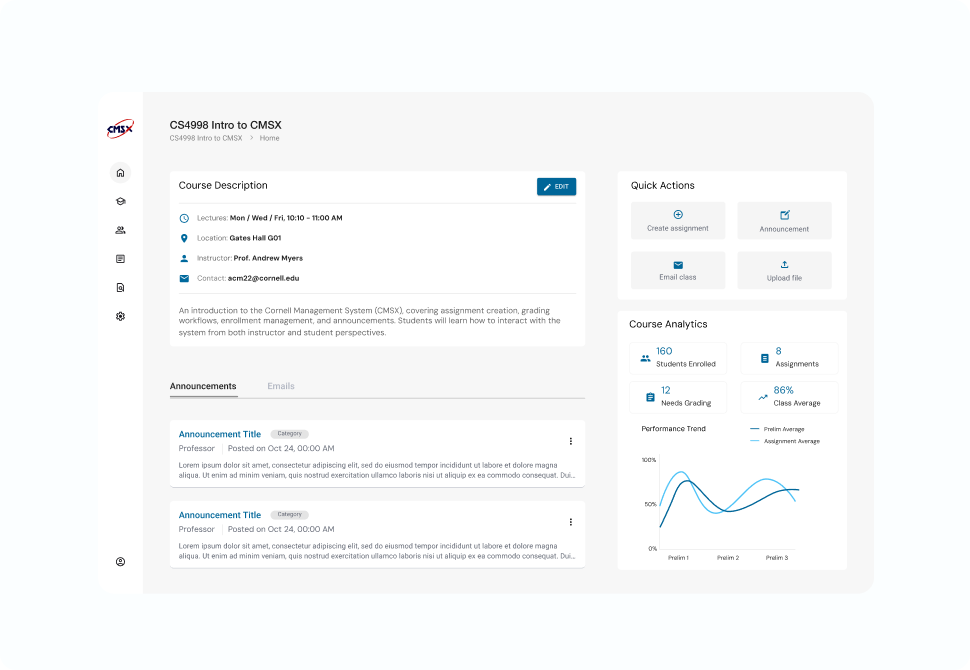
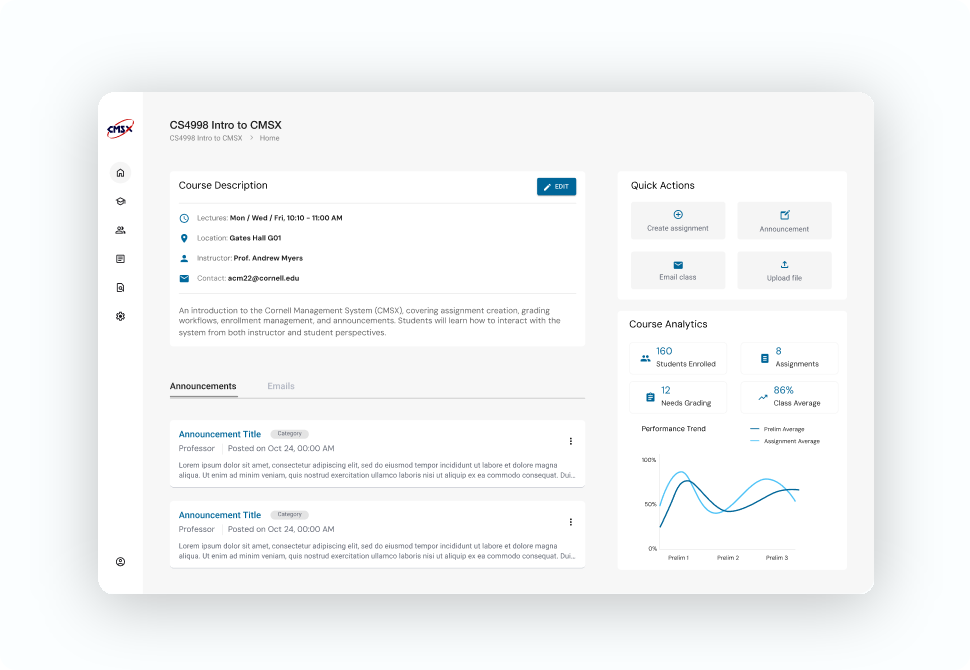
updated home page

Changed region(s): [[0.1237, 0.8657, 0.8969, 0.9254], [0.8969, 0.1791, 0.9278, 0.8657], [0.0928, 0.209, 0.1237, 0.8657]]

diff --git a/index.html b/index.html
@@ -83,7 +83,7 @@
                 <span class="project-card__tag">DCC | Spring 2026</span>
               </div>
               <p class="project-card__description">
-                Designed a campus marketplace app that helps students discover student-run businesses through a more connected campus community
+                Designed a campus marketplace for student-run services
               </p>
             </a>
 
@@ -96,7 +96,7 @@
                 <span class="project-card__tag">DTI | Fall 2025</span>
               </div>
               <p class="project-card__description">
-                Led the design of a 0→1 personalized folders feature for organizing and comparing apartments on a housing platform for students
+                Led the design of a 0→1 personalized housing experience for students
               </p>
             </a>
           </div>
@@ -111,7 +111,7 @@
                 <span class="project-card__tag">FigBuild Design-a-ton | Spring 2026</span>
               </div>
               <p class="project-card__description">
-                Designed a privacy-centered wearable and tablet experience that helps people understand subtle shifts in daily rhythms and time perception
+                Created a wearable experience revealing changes in daily rhythms
               </p>
             </a>
 
@@ -124,7 +124,7 @@
                 <span class="project-card__tag">CMSX | Spring 2026</span>
               </div>
               <p class="project-card__description">
-                Designed a course management experience that helps instructors and TAs navigate course data, manage classes, and access key actions
+                Designed a course management experience for instructors and TAs
               </p>
             </a>
           </div>
@@ -139,7 +139,7 @@
                 <span class="project-card__tag">Game Design | Spring 2026</span>
               </div>
               <p class="project-card__description">
-                Led the UX design for Crush the Hero, a turn based strategy game presented at the 2026 Cornell GDIAC Showcase
+                Crafted a turn-based strategy game with UX and interactions
               </p>
             </a>
 
@@ -152,7 +152,7 @@
                 <span class="project-card__tag">Independent Case Study | Summer 2025</span>
               </div>
               <p class="project-card__description">
-                Designed a calming study app that helps college students stay focused and reflect on their progress
+                Built a low-pressure focus experience for students to track progress
               </p>
             </a>
           </div>

diff --git a/styles.css b/styles.css
@@ -464,7 +464,6 @@ header {
 .project-card {
   display: flex;
   flex-direction: column;
-  gap: 19px;
   color: inherit;
   cursor: pointer;
   transition: transform 1.1s cubic-bezier(0.19, 1, 0.22, 1), opacity 1.1s cubic-bezier(0.19, 1, 0.22, 1);
@@ -507,6 +506,7 @@ header {
   gap: 16px;
   font-size: 18px;
   color: #000;
+  margin-top: 19px;
 }
 
 .project-card__title {
@@ -525,10 +525,11 @@ header {
 }
 
 .project-card__description {
-  font-size: 14px;
+  font-size: 15px;
   font-weight: 400;
   line-height: 1.5;
-  color: var(--color-primary);
+  color: #575757;
+  margin-top: 7px;
 }
 
 /* Footer */
